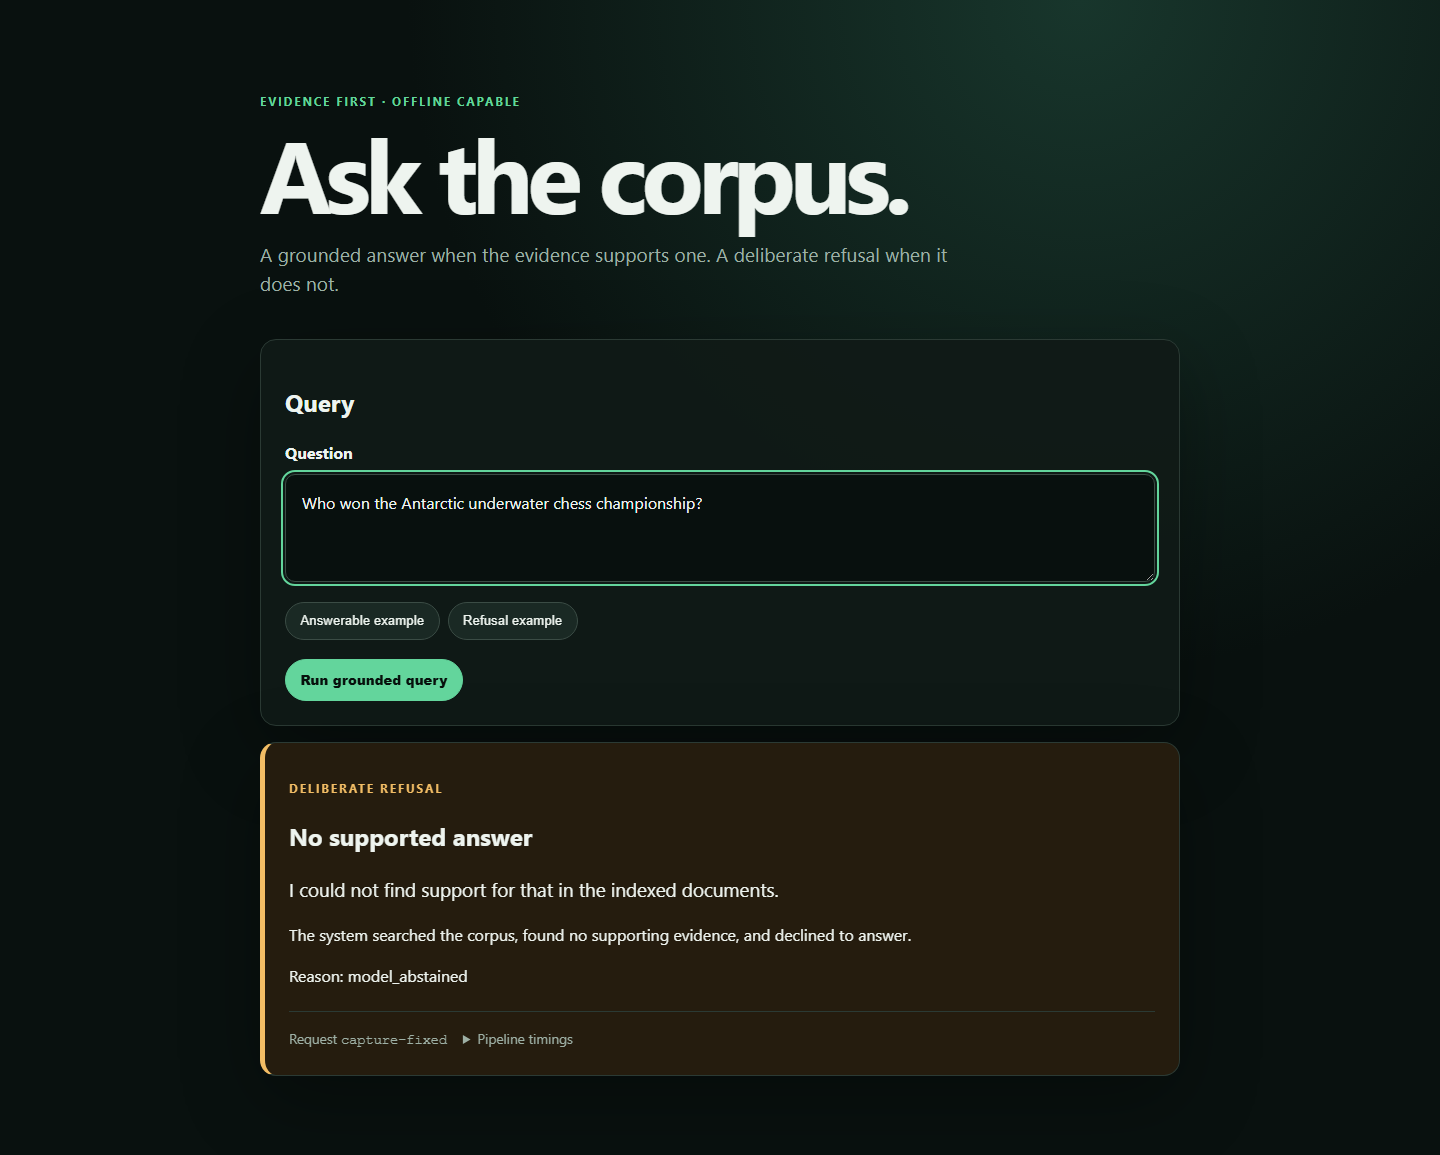
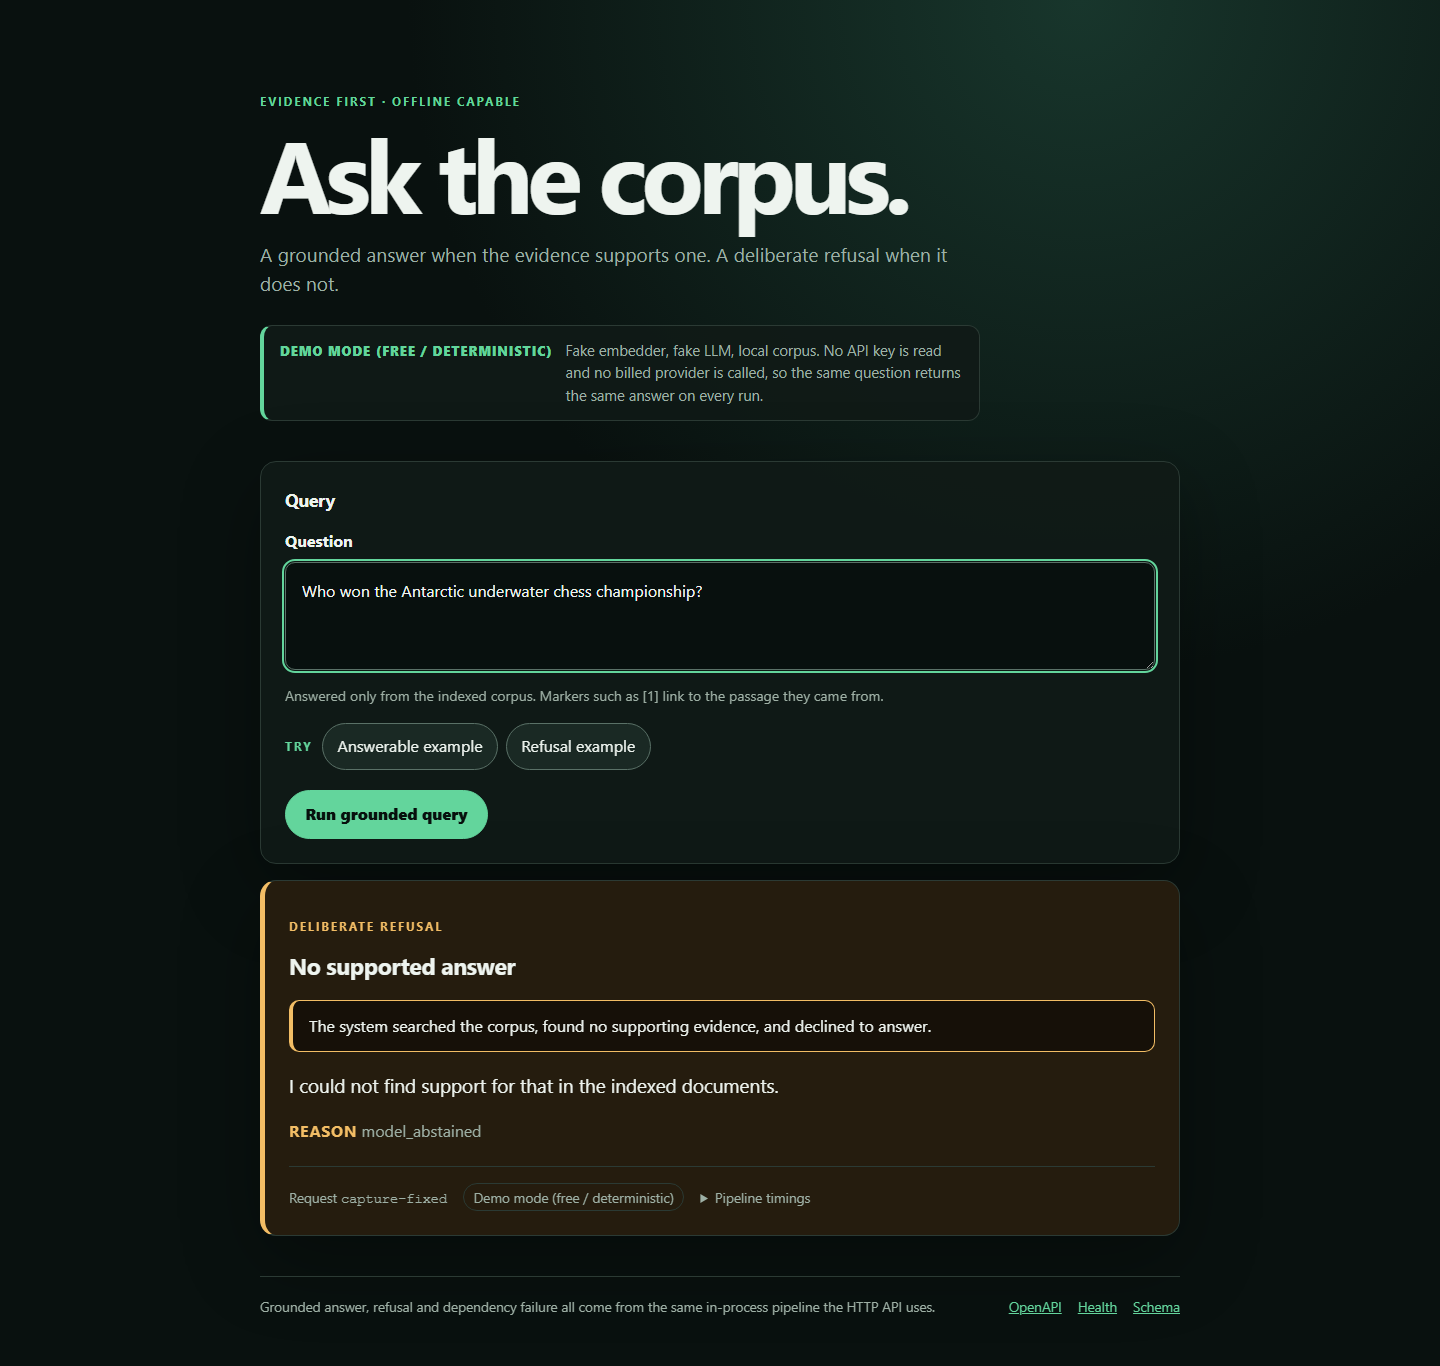
docs(ui): regenerate free-path captures
Rebuild the three UI captures against the polish in ac5973a, so the images a
reviewer sees match the page they get: the demo-mode label, the Answer and
Citations split, the total row in the timings, and the service-link footer.

Produced by scripts/capture_ui.py on the credential-free stack — fake embedder,
fake LLM, sample corpus, empty provider keys. Two consecutive runs printed
identical SHA-256 digests, which is the reproducibility the README claims.

The API image bakes src/ in, so the capture must follow docker compose build api;
without it the script happily photographs the previous UI and prints unchanged
digests. docs/demo.md now says so.

Changed region(s): [[0.1562, 0.4675, 0.8438, 0.9662], [0.1562, 0.0623, 0.6562, 0.3117], [0.1875, 0.3429, 0.8125, 0.4364]]

diff --git a/docs/demo.md b/docs/demo.md
@@ -48,6 +48,6 @@ leaking the underlying error. Per-node durations sit behind the collapsed
 from `python scripts/capture_ui.py`, after `pip install -e ".[docs]"` and
 `playwright install chromium`. That script drives the same credential-free stack
 these setup scripts start — fake providers, local corpus, no key — so refreshing the
-images costs only the time it takes to run. The committed images predate the current
-header label, the Answer/Citations split, and the service-link footer; re-run the
-capture to bring them back in step.
+images costs only the time it takes to run. Rebuild the API image first
+(`docker compose build api`): the Dockerfile copies `src/` in, so a capture against a
+stale image silently documents the previous UI and prints unchanged digests.
